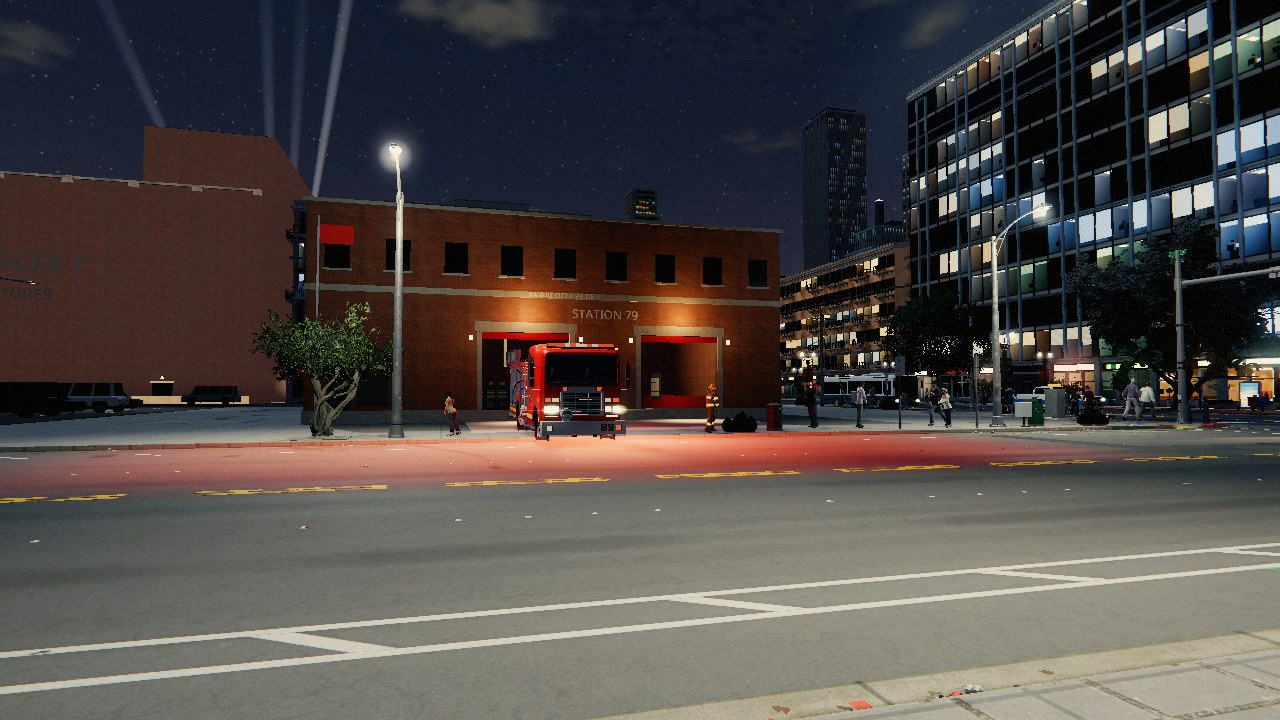
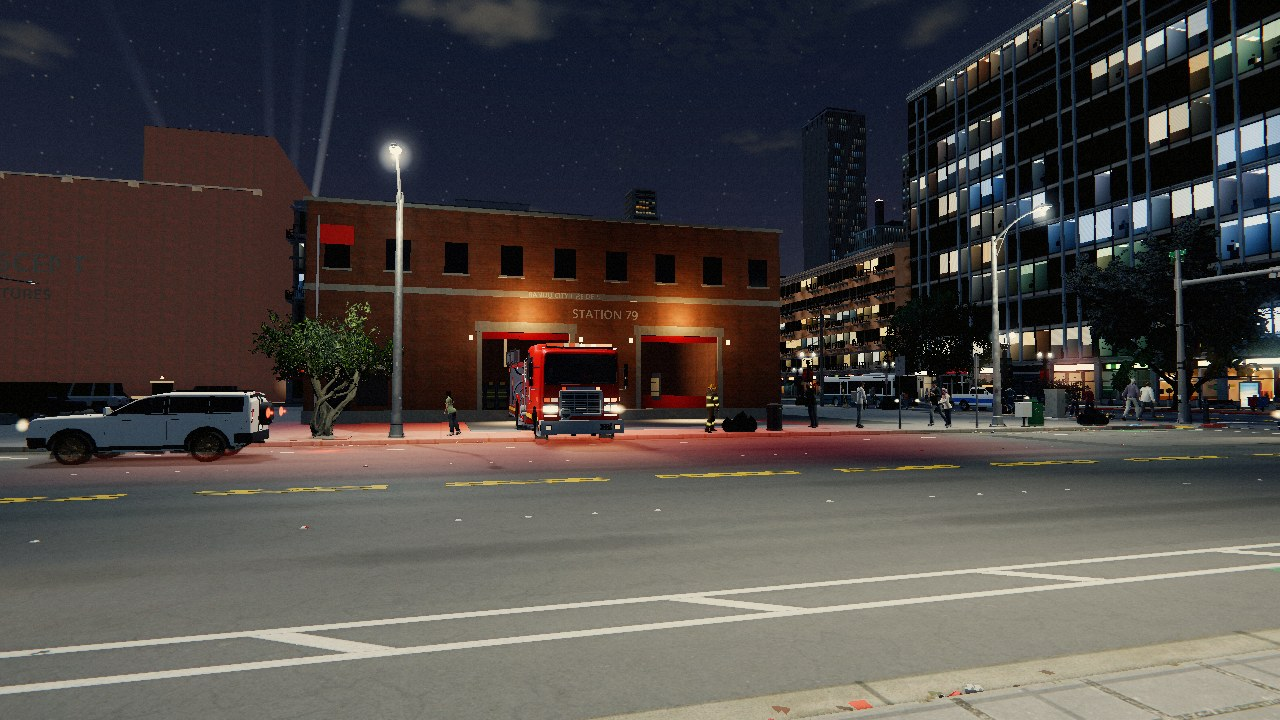
Stills: final after, ten-camera compare
Claude-Session: https://claude.ai/code/session_01Q7NKyzSYtmLwsRgSuNYfGF

Changed region(s): [[0.0, 0.4583, 0.875, 0.7028], [0.25, 0.0, 0.2812, 0.2139], [0.75, 0.5194, 0.875, 0.5806]]

diff --git a/README.md b/README.md
@@ -7,9 +7,11 @@ clear, from the far pavement as an engine goes out on a call. opengl3 (Compatibi
 | file | what |
 |---|---|
 | 01_before_fire_station_night.jpg | main (12042fe2) with the same staging at FS_T=0.6: the engine appears on the street (clipping a box truck), the doors shut, the firehouse 40 m back and hidden, no light on the street |
-| 02_after_fire_station_night.jpg | this branch, t = 8.1 s after the call: the engine nosing out of the open bay, door lamps on the brick, the lit bay, the firefighter at the kerb, the warning lights' red wash on the road, traffic stopped |
+| 02_after_fire_station_night.jpg | this branch, t = 8.1 s after the call: the engine nosing out of the open bay, door lamps on the brick, the lit bay, the firefighter at the kerb, the warning lights' red wash on the road, a westbound car stopped short of the station on its brakes |
 | 03_after_wider_framing.jpg | an earlier eye 5 m further east (same branch, before the final framing) |
 
+| 04_ten_cameras_compare_vs_main.jpg | the ten original cameras, main 8c0de652 vs this branch: 8 ok, street_night and freeway flagged by live traffic (a bus and different cars in frame), nothing near a station |
+
 Numbers (refcams report): before p5/p50/p95 5/54/173, 6.97 M tris, 3,864 draws;
-after 5/57/174, 6.46 M tris, 3,624 draws (the box truck the before's engine hit is out of frame in
-the after; the station's own additions are a few draws).
+after 5/53/172, 6.57 M tris, 3,673 draws (the box truck the before's engine drove into is not in the
+after's frame; the station's own additions are a few draws and a handful of lights).
